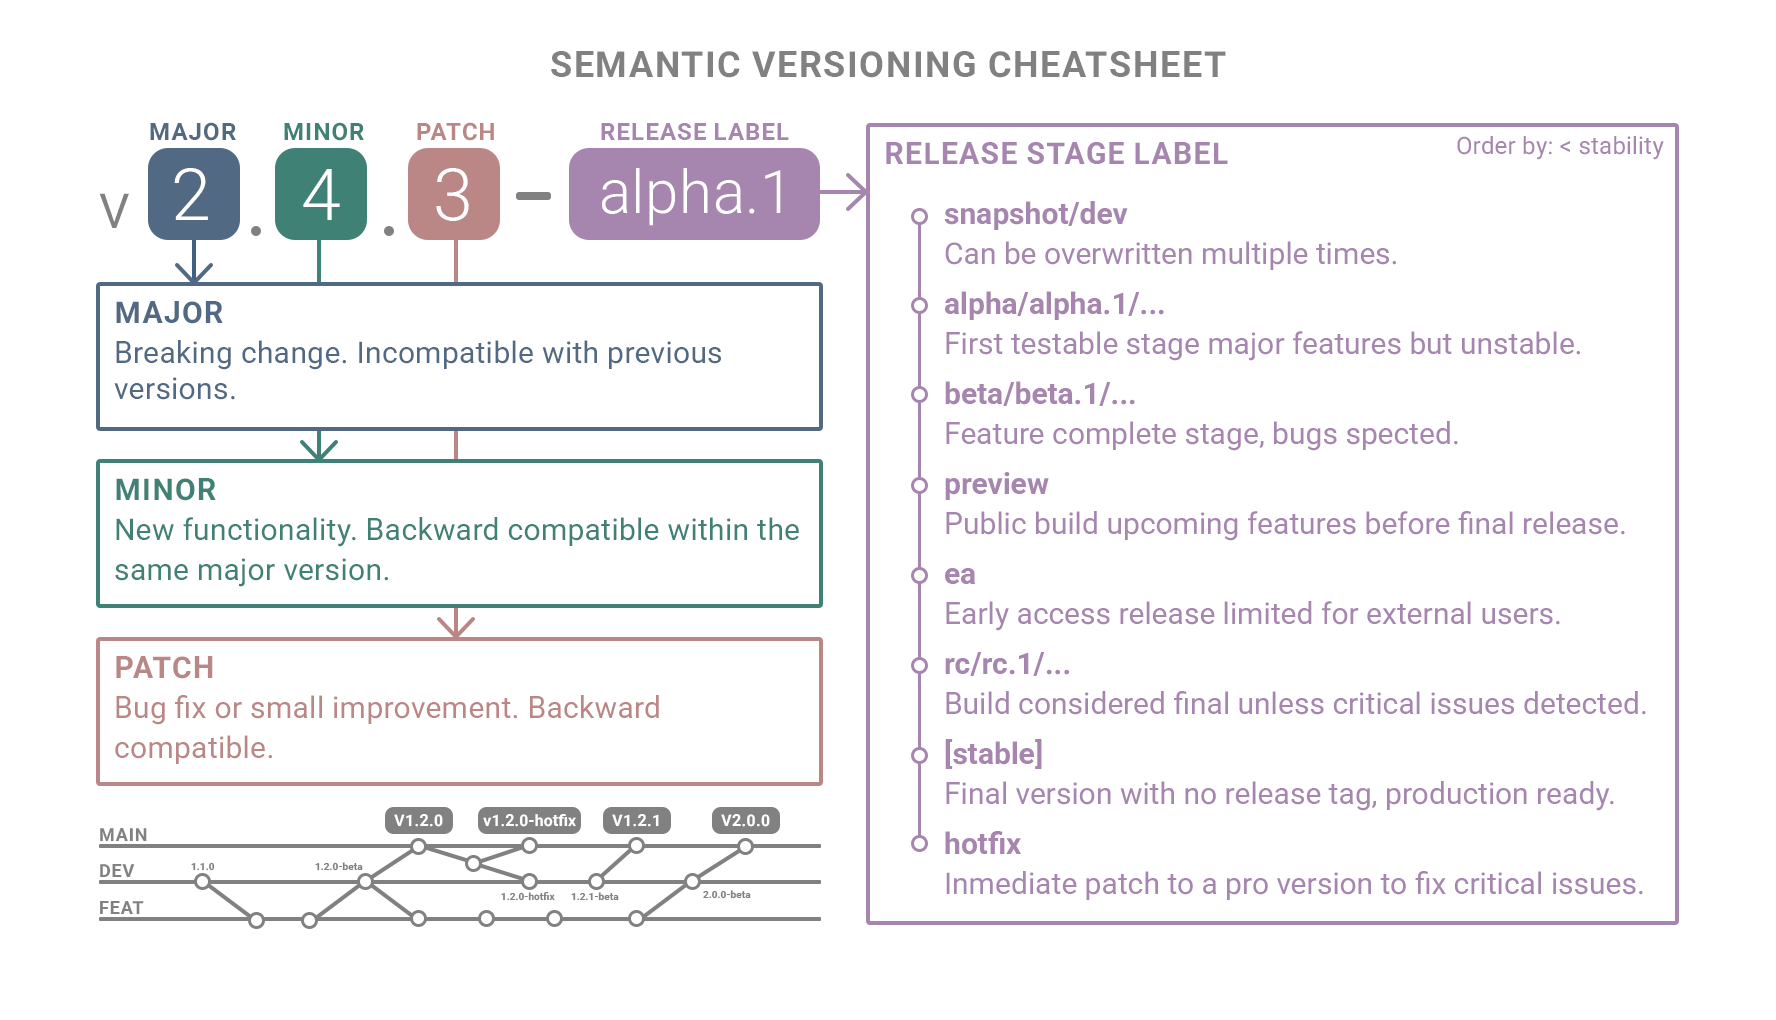
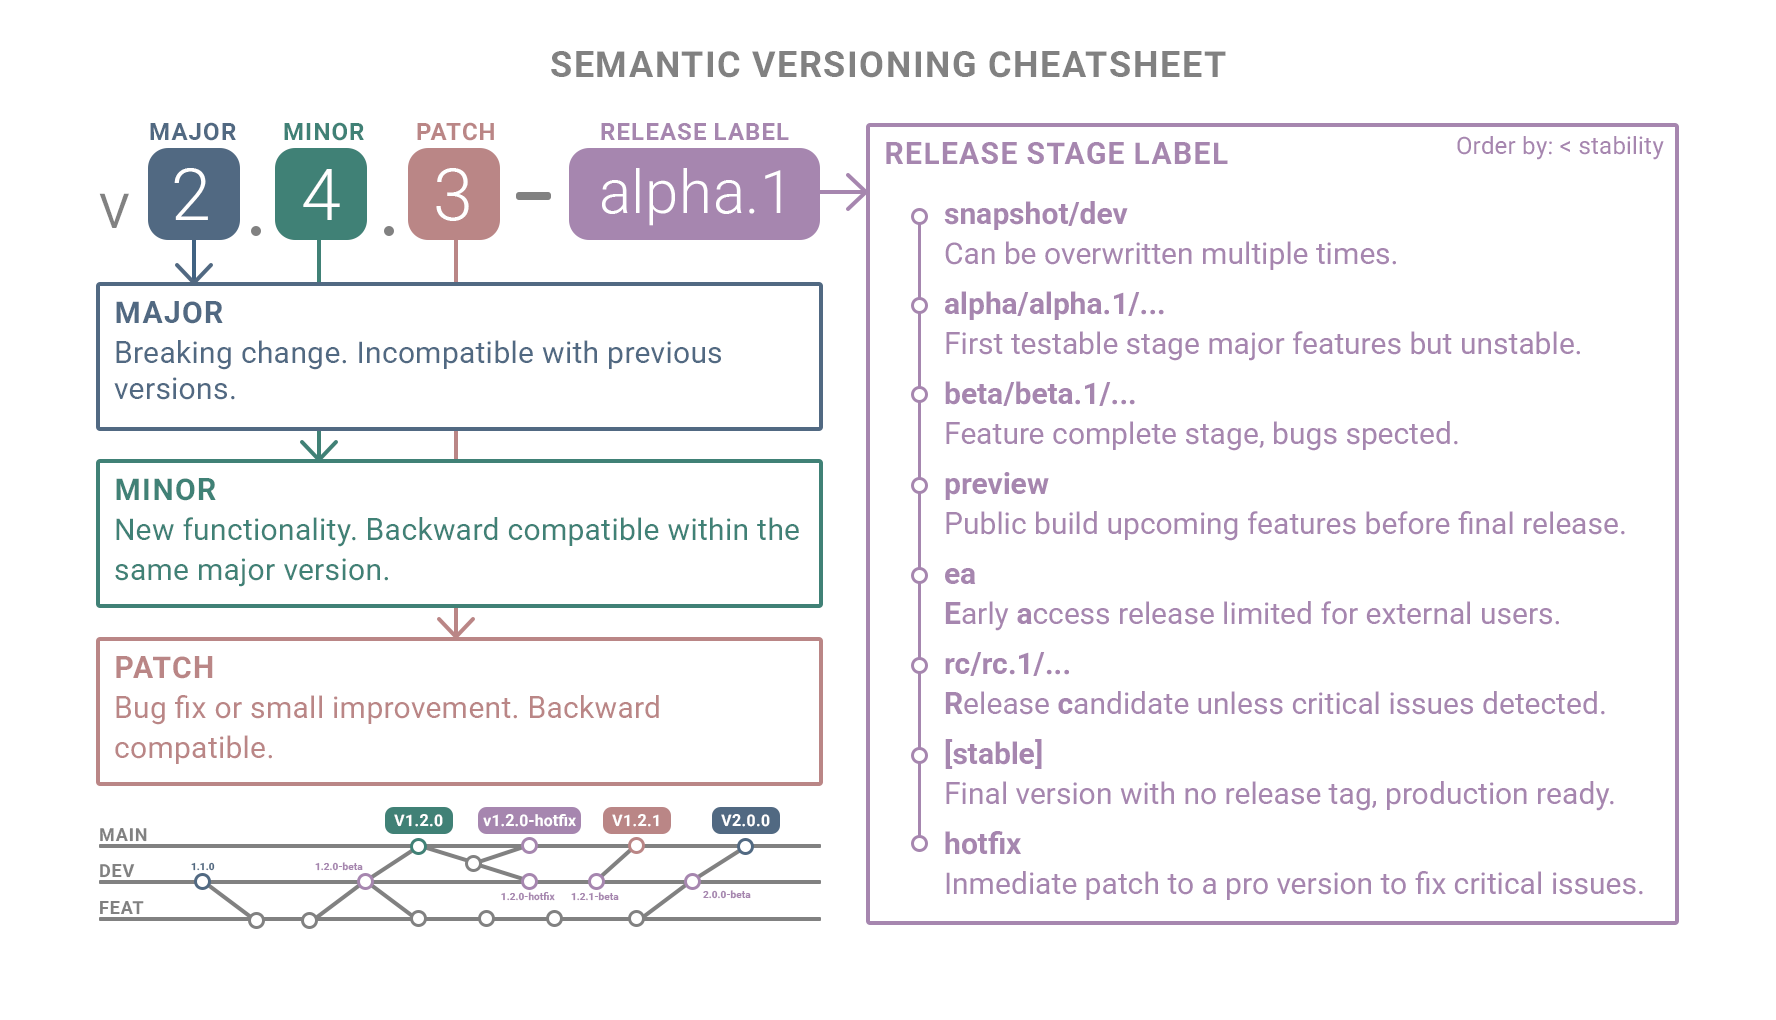
fix: images

diff --git a/docs/resources/templates/my-python-template.md b/docs/resources/templates/my-python-template.md
@@ -2,12 +2,12 @@
 short_title: My Python template
 description: none
 date: 2022-12-22
-thumbnail: assets/images/resources/data-mesh-portrait.png
+thumbnail: assets/images/thumbnails/template-python-portrait.png
 ---
 
 # My Python template
 
-![Cookiecutter Python template](../../assets/images/resources/template-python-portrait.png){ .image-width-24 }
+![](../../assets/images/resources/template-python-portrait.png){ .image-caption }
 
 Every time I have started a new Python project, I have spent a lot of time setting up the initial files like the README, Code of Conduct, licenses, and the base code itself to start with. Even having a template ready, the process of cloning it and starting to customize it has taken me a lot of time.
 
